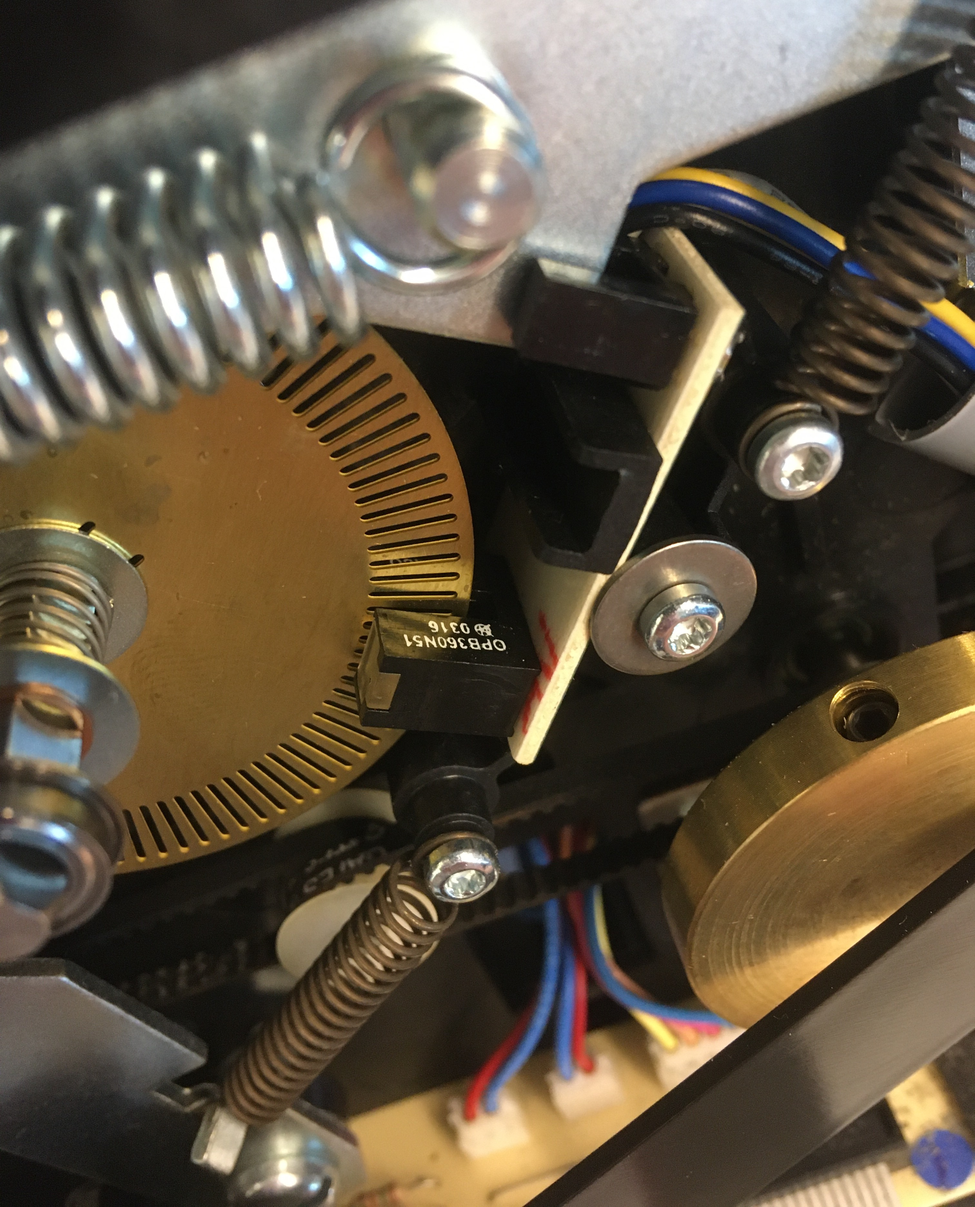
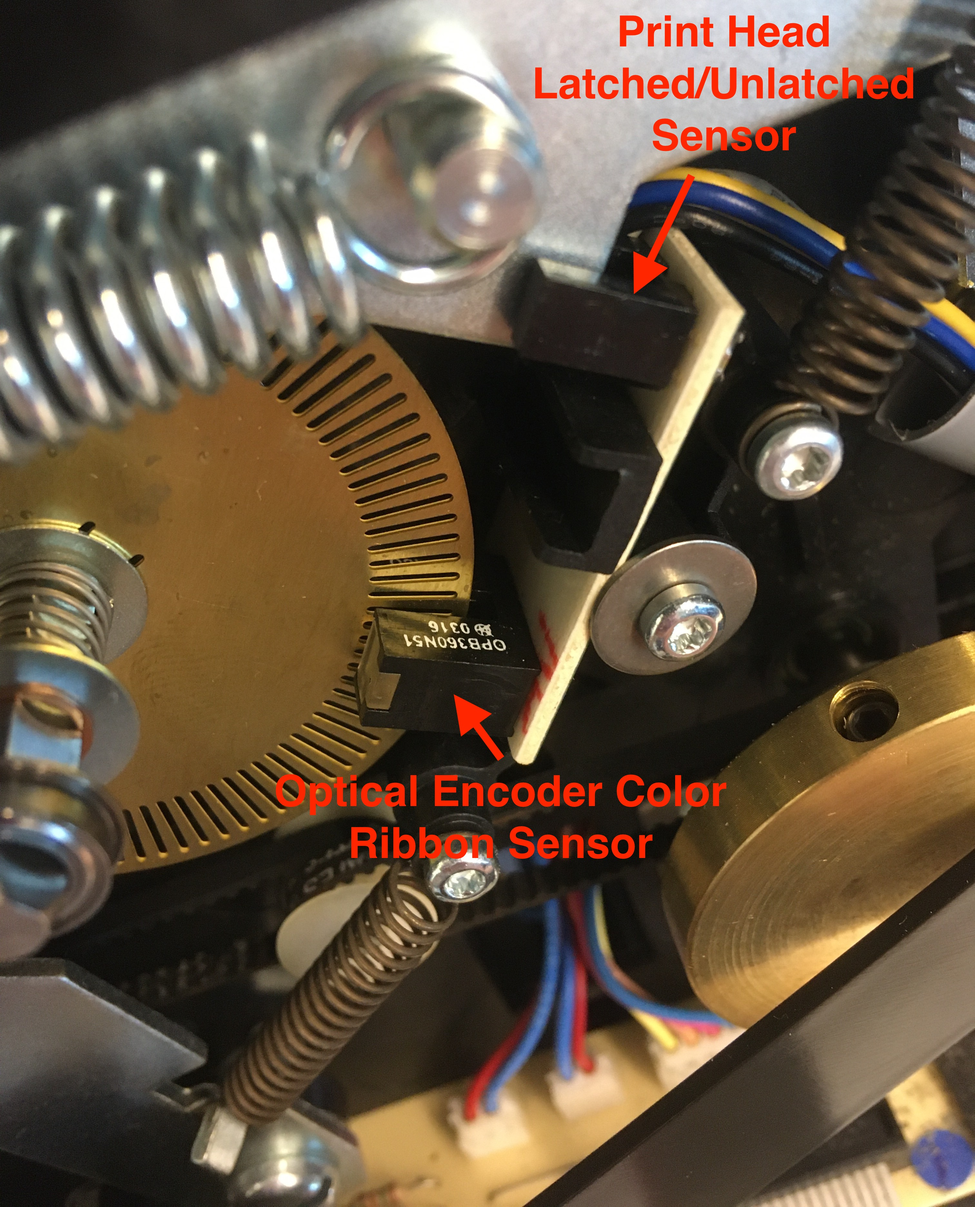
added about print head

Changed region(s): [[0.5284, 0.0, 0.9325, 0.186], [0.2798, 0.558, 0.746, 0.713], [0.6528, 0.186, 0.6839, 0.248]]

diff --git a/teardowns/IDprinter.html b/teardowns/IDprinter.html
@@ -329,7 +329,7 @@
 	<p class="label">Card Entry Detection</p>
 	<img src="../images/teardowns/IDprinter/entryDetector.jpg" alt="Card Detection Sensor with Four Exiting Wires" class="center">
 	<p class="label">Card Entry Detection Sensor</p>
-	<p>&emsp;&emsp;The card entry detection sensor is a beam-interrupt type optical sensor known as a slotted optical switch. Although I couldn't find the datasheet for this exact product, I found one for a similar looking product <a href="https://www.ttelectronics.com/TTElectronics/media/ProductFiles/Optoelectronics/Datasheets/OPB830_OPB840.pdf">here</a>. When an ID card passes between the two terminals of the sensor, it blocks the light shining from the top terminal (labeled E for emitter) from reaching the phototransistor in the bottom terminal (labeled S for sensor), causing the sensor output to change as the phototransistor switches either open or closed. When the signal coming from the phototransistor changes, it's change is detected by a voltage comparator. The digital output from the voltage comparator is then sent to the microcontroller communicating that a card has been detected at the printer entry. This solution to card detection would be fairly easy to implement in the design and likely produces consistent card detection results. That is, until someone decides to get tricky and start loading translucent or transparent cards into the printer.</p>
+	<p>&emsp;&emsp;The card entry detection sensor is a LED-phototransistor optical sensor known as a slotted optical switch. It can be thought of as a beam interrupt sensor, but in reality the light emitter produces diffuse light as opposed to a focused laser across its terminals. Although I couldn't find the datasheet for this exact product, I found one for a similar looking product <a href="https://www.ttelectronics.com/TTElectronics/media/ProductFiles/Optoelectronics/Datasheets/OPB830_OPB840.pdf">here</a>. When an ID card passes between the two terminals of the sensor, it blocks the light shining from the LED in the top terminal (labeled E for emitter) from reaching the phototransistor in the bottom terminal (labeled S for sensor), causing the sensor output to change as the phototransistor switches either open or closed. When the signal coming from the phototransistor changes, it's change is detected by a voltage comparator. The digital output from the voltage comparator is then sent to the microcontroller communicating that a card has been detected at the printer entry. This solution to card detection would be fairly easy to implement in the design and likely produces consistent card detection results. That is, until someone decides to get tricky and start loading translucent or transparent cards into the printer.</p>
 </section>
 <hr>
 <section>
@@ -340,7 +340,7 @@
 	<p class="label">Printer Mechanism Exploded View</p>
 	<h4>Introduction</h4>
 	<p>&emsp;&emsp;The back half of the printer body contained the devices used in the primary operation of the printer&mdash;print head and magnetic encoder&mdash;and the mechanical assembly to drive those operations. From a mechanical perspective, this was the most exciting piece of the printer. A system of many shafts connected together by a timing belt were driven by a flywheel and stepper motor to drive the ID card through the printer. A belt and pulley system driven by a separate geared DC motor controls the rolling up of the used color ribbon as the print head moved through each layer of color. Yet another geared DC motor drives a cam to rotate the print head up during card travel and down during printing.</p>
-	<p>&emsp;&emsp;In order for the onboard microcontroller to keep track of all these processes to ensure they are executed at appropriate time intervals a number of optical sensors exist across the mechanical assembly. All these sensors are beam interrupt type optical sensors like that used to detect the card first entering the printer. In total, three of these sensors are used to track whether the print head is up or down, whether the print head is latched or unlatched, and how far the color ribbon has unwound.</p>
+	<p>&emsp;&emsp;In order for the onboard microcontroller to keep track of all these processes to ensure they are executed at appropriate time intervals a number of optical sensors exist across the mechanical assembly. All these sensors are LED-phototransistor optical sensors like that used to detect the card first entering the printer. In total, three of these sensors are used to track whether the print head is up or down, whether the print head is latched or unlatched, and how far the color ribbon has unwound.</p>
 	<br>
 	<h4>Printer Mechanism PCB</h4>
 	<p>&emsp;&emsp;The printer mechanism daughter board is a simple PCB with no onboard intelligence. Its function is instead to provide connection points for the many sensors and motors in the mechanical assembly so that information can then be sent back and forth through a compact ribbon cable. As a clear statement of its simplicity, this board is one side (i.e. copper traces are only drawn on the bottom). One sided boards are easier to manufacture, but they can be difficult for the board designer as space to draw traces is more limited. On a board with many components such as this, it is almost unavoidable that some of the traces will have to cross. Instead of using vias though, the designers of this PCB using little jumper wires and resistors in several locations to connect traces across the board. All of the sensor and motor connectors use a JST-type style with an asymmetric shape that only permits the opposing female ends to be inserted in one orientation. This ensures that the sensors and motors are not installed correctly during assembly of the printer.</p>
@@ -349,7 +349,32 @@
 	<img src="../images/teardowns/IDprinter/mechanismPCBback.jpg" alt="Simple Green PCB Backing with THT Soldering and Traces" class="center">
 	<p class="label">Printer Mechanism PCB - Bottom View</p>
 	<br>
+	<h4>Print Head</h4>
+	<img src="../images/teardowns/IDprinter/heatingElement.jpg" alt="Metal Plate Piece with Many Wires Leading In and Labelled 'R-1525'" class="center">
+	<p class="label">Print Head</p>
+	<img src="../images/teardowns/IDprinter/heatingElementExploded.jpg" alt="Metal Cover Removed from Heating Element Revealing Copper Tone PCB with Traces and Vias" class="center">
+	<p class="label">Print Head PCB</p>
+	<img src="../images/teardowns/IDprinter/fan.jpg" alt="Small 12V DC Brushless Fan Motor" class="center">
+	<p class="label">Cooling Fan for Print Head</p>
+	<p>&emsp;&emsp;Sitting just behind the print head is a LED-phototransistor sensor. Unlike the other LED-phototransistor sensors across the printer which have the LED and phototransistor separated across a channel, the LED and phototransistor in this sensor are neighboring. In this arrangement, the sensor acts as a reflected light sensor rather than a beam interrupt sensor. Furthermore, the phototransistor only responds to yellow reflected light. Although I'm not sure, I think this is accomplished by using a yellow casing on the phototransistor. If the LED emits white light, then the only light reflecting towards the phototransistor is the same color as that panel of the ribbon. For all panels except yellow, the light reflect by the ribbon is absorbed by the phototransistor. The yellow panel reflects yellow light which is then also reflected by the yellow casing of the phototransistor. This sensor is used to detect the first panel in the YMCKO color ribbon, the yellow panel. When the phototransistor is triggered, the microcontroller perceives that the imaging operation has concluded.</p>
+	<div class="doubleRowImage">
+		<img src="../images/teardowns/IDprinter/heatingLight.jpg" alt="Small Plastic Piece with Two LED Heads at Tip">
+		<p class="label">Light Unit Adjacent to Print Head</p>
+	</div>
+	<div class="doubleRowImage">
+		<img src="../images/teardowns/IDprinter/heatingLightExposed.jpg" alt="Two LEDs Laid in Plastic with Wires Leading Out From Each Terminal">
+		<p class="label">LEDs Exposed in Light Unit</p>
+	</div>
+	<p>&emsp;&emsp;Below is a close-up of the motor used to raise the print head during card travel and lower it against the card during printing. This motor is the same as the motors used for take-up of the color ribbon and feeding in the card. It's interesting to note that these motors are rated for 18V when the stepper motor is rated for 24V and the technical manual states that all motors receive 24V. It's not unheard of to drive motors at higher voltages than they are rated, especially when the motors are only to be driven over short bursts such as the DC geared motors in the printer. Increasing the voltage above the rated voltage of the motors and then expecting continuous operation though will likely cause the motors to overheat. This could potentially damage the insulation between the motor windings and render the motor useless. </p>
+	<img src="../images/teardowns/IDprinter/motor.jpg" alt="18V 4.5N*cm Motor by Buhler" class="center">
+	<p class="label">Print Head Up/Down Geared DC Motor</p>
+	<p>&emsp;&emsp;Below is a short video demonstrating the full range of motion the print head is capable of when unlatched. This motion is much more dramatic than the regular raising and lowering of the print head during printer operation, but is useful when an operator is trying to clean the printer interior or remove a card jam.</p>
+	<video controls="controls" name="Testing Print Head Unlock Lever" src="../images/teardowns/IDprinter/armAction.mp4" class="center"></video>
+	<p class="label">Testing Print Head Unlock Lever</p>
+	<br>
 	<h4>Optical Encoder</h4>
+	<p>&emsp;&emsp;The small white PCB shown tucked into the mechanical assembly in the picture below carries two LED-phototransistors: one to detect whether the print head is latched or unlatched and another used as an optical encoder sensor for the color ribbon. As soon as I saw the pattern of slots lining the circumference of the brass circle in the mechanical assembly, I thought to myself 'that looks like an optical encoder'. As the slotted disk spins, the LED-phototransistor pairs sends out high and low signals corresponding to whether the sensor is over the open or closed part of the disk. Each time the signal changes, the microcontroller records one tick and by using the number of ticks&mdash;two times the number of slots&mdash;each tick count can then be translated into degrees of rotation of the shaft. Attached to the opposing end of the shaft is the mount for the color ribbon in the printer interior. Therefore the optical encoder is used to track the rotation of the color ribbon.</p>
+	<p>&emsp;&emsp;The reason why the printer needs to track the rotation of the color ribbon isn't obvious though. The reflected light sensor by the print head already detects the beginning of the yellow panel and since all panels will have the same length, the microcontroller should know how long to activate the ribbon take-up motor to move the color ribbon through all five panels. Shouldn't it? The problem is actually a little more complicated than that though since the diameter of the ribbon roll formed at the ribbon take-up motor increases during printer operation as ribbon is transferred through the machine. This means that the angle of rotation on the take-up motor required to wind up one panel will decrease over the course of printer operation. By keeping track of how much the color ribbon has unwound, the microcontroller is able to calculate the diameter of the take-up roll and command the appropriate amount of take-up motor actuation time. I thought this was a clever solution to a non-steady state problem.</p>
 	<img src="../images/teardowns/IDprinter/opticalEncoder.jpg" alt="Gold Slotted Circular Plate with Attached Light Sensor" class="center">
 	<p class="label">Closeup of Optical Encoder Mechanism</p>
 	<div class="doubleRowImage">
@@ -361,7 +386,7 @@
 		<p class="label">Optical Encoder Disk - Back View</p>
 	</div>
 	<img src="../images/teardowns/IDprinter/opticalSensor.jpg" alt="Small PCB with Light Sensors and Wires Leading Offboard" class="center">
-	<p class="label">Optical Encoder Light Sensor</p>
+	<p class="label">Optical Encoder Sensor</p>
 	<br>
 	<h4>Magnetic Encoder</h4>
 	<img src="../images/teardowns/IDprinter/magneticEncoder.jpg" alt="Metal Sensor Mounted After Roller Exiting Heating Element" class="center">
@@ -375,26 +400,6 @@
 		<p class="label">Magnetic Encoder - Bottom View</p>
 	</div>
 	<p>&emps;&emps;The magnetic encoder unit contains a read/write head and there must be a nearby or included card sensor. The encoder reads after writing to assure a reliable result. Encoding occurs on all 3 tracks as the card passes over the encoder unit.</p>
-	<br>
-	<h4>Print Head</h4>
-	<img src="../images/teardowns/IDprinter/heatingElement.jpg" alt="Metal Plate Piece with Many Wires Leading In and Labelled 'R-1525'" class="center">
-	<p class="label">Print Head</p>
-	<img src="../images/teardowns/IDprinter/heatingElementExploded.jpg" alt="Metal Cover Removed from Heating Element Revealing Copper Tone PCB with Traces and Vias" class="center">
-	<p class="label">Print Head PCB</p>
-	<img src="../images/teardowns/IDprinter/fan.jpg" alt="Small 12V DC Brushless Fan Motor" class="center">
-	<p class="label">Cooling Fan for Print Head</p>
-	<div class="doubleRowImage">
-		<img src="../images/teardowns/IDprinter/heatingLight.jpg" alt="Small Plastic Piece with Two LED Heads at Tip">
-		<p class="label">Light Unit Adjacent to Print Head</p>
-	</div>
-	<div class="doubleRowImage">
-		<img src="../images/teardowns/IDprinter/heatingLightExposed.jpg" alt="Two LEDs Laid in Plastic with Wires Leading Out From Each Terminal">
-		<p class="label">LEDs Exposed in Light Unit</p>
-	</div>
-	<img src="../images/teardowns/IDprinter/motor.jpg" alt="18V 4.5N*cm Motor by Buhler" class="center">
-	<p class="label">DC Motor for Roller Rotation</p>
-	<video controls="controls" name="Testing Print Head Unlock Lever" src="../images/teardowns/IDprinter/armAction.mp4" class="center"></video>
-	<p class="label">Testing Print Head Unlock Lever</p>
 	<br>
 	<h4>Conclusion</h4>
 	<img src="../images/teardowns/IDprinter/unremovablePieces.jpg" alt="Several Shaft Mounted Disks and Metal Lever Arm Remaining Inside Body" class="center">
